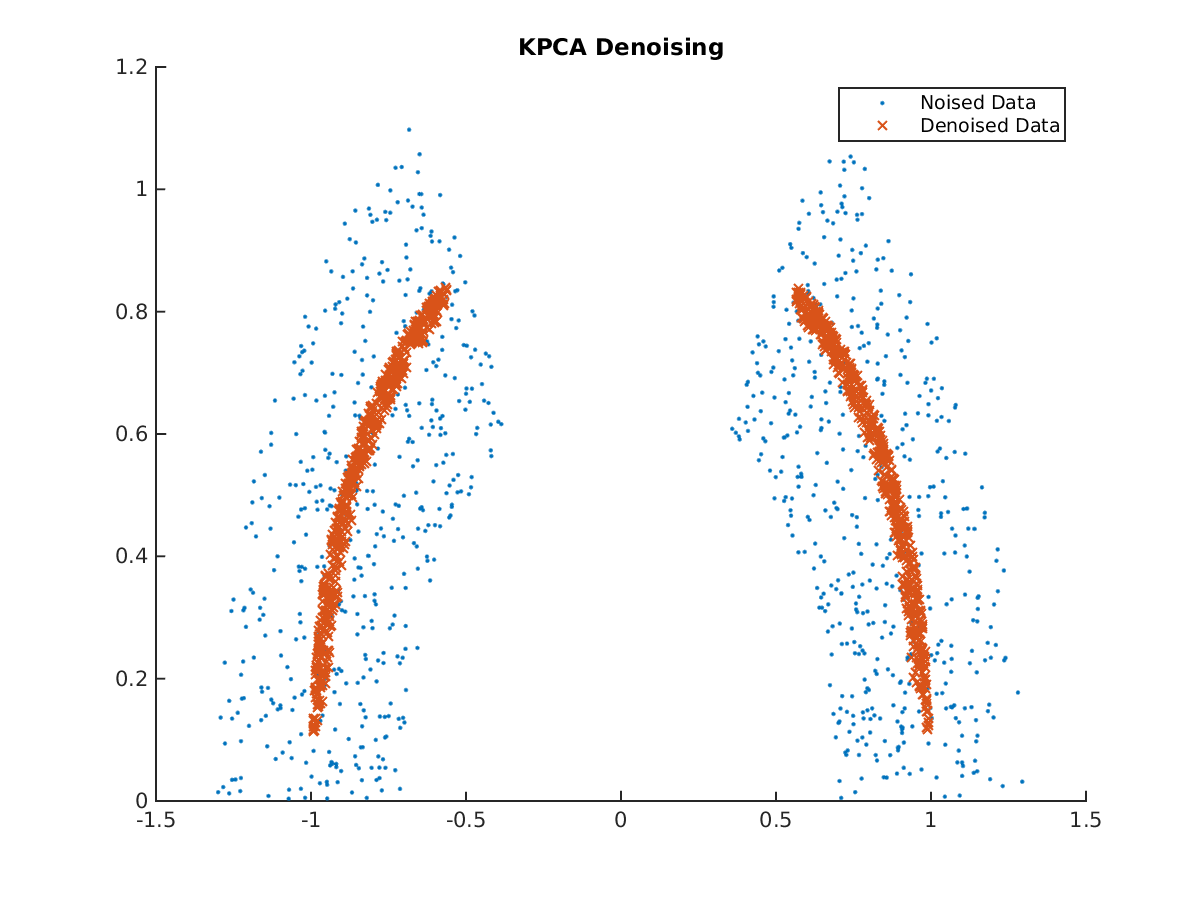
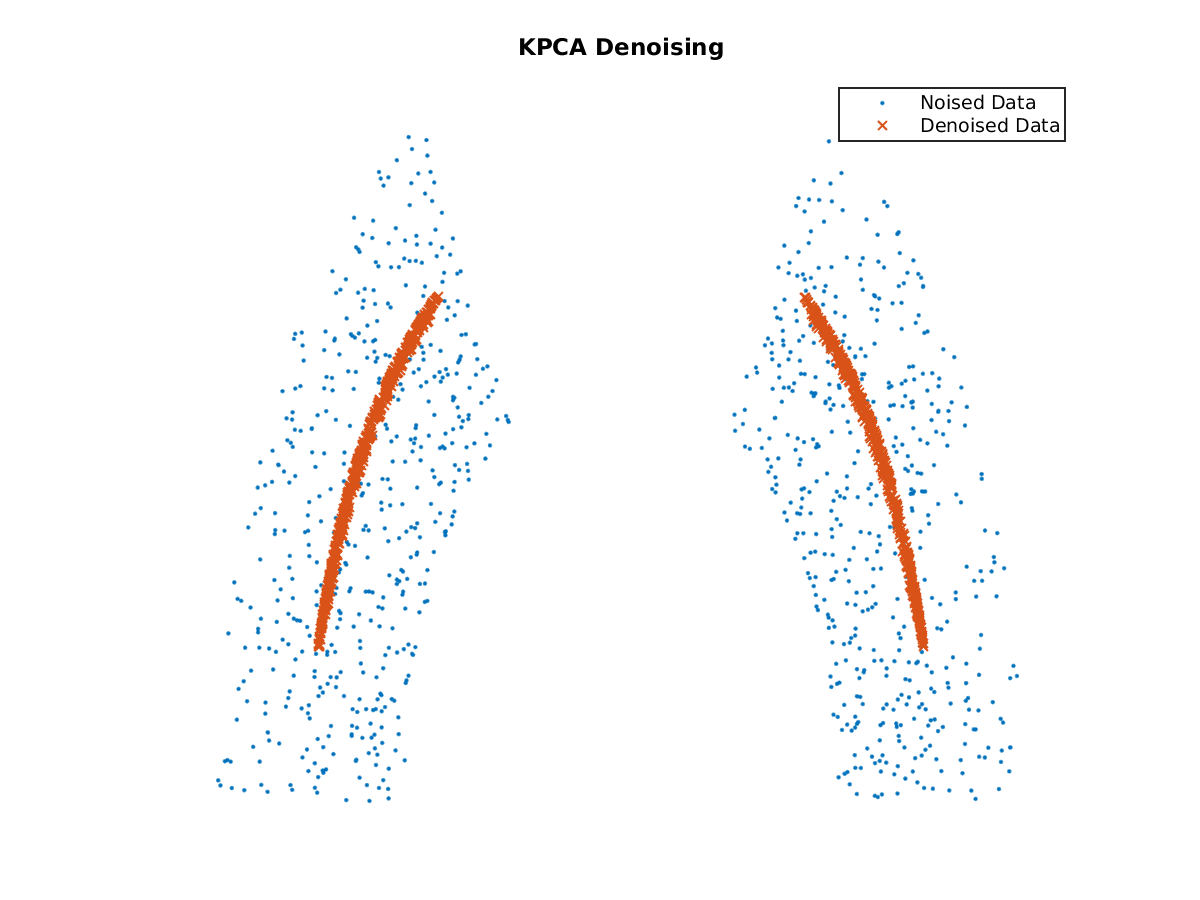
Small adjustments to image gen

diff --git a/code/circle_test.m b/code/circle_test.m
@@ -21,7 +21,7 @@ N = size(x_n, 1);
 % Perform the kPCA
 param = 2*sigma^2;
 [kernel, kernelM] = make_kernel('rbf', param);
-[~, alphas, ~] = kpca([x, y], kernelM, 8);
+[~, alphas, ~] = kpca([x, y], kernelM, 4);
 
 
 % The training data is the generated half circle. The train data is the
@@ -51,6 +51,7 @@ hold on
 % plot(x, y, 'DisplayName', 'Training Data');
 plot(x_n, y_n, '.', 'DisplayName', 'Noised Data');
 plot(z(:, 1), z(:, 2), 'x', 'DisplayName', 'Denoised Data');
+axis off
 title('KPCA Denoising');
 legend('-DynamicLegend');
 saveas(gcf, 'fig/kpca_circle.png');
@@ -58,7 +59,7 @@ saveas(gcf, 'fig/kpca_circle.png');
 
 [kernel, kernelM] = make_kernel('poly', 1);
 % [~, alphas, ~, ~, ~, ~] = pca(train_data, 'Centered', true, 'NumComponents', 2);
-[~, alphas, ~] = kpca(train_data, kernelM, 2);
+[~, alphas, ~] = kpca(train_data, kernelM, 1);
 
 z_plain = zeros(size(test_data));
 for i=1:N
@@ -69,6 +70,7 @@ figure()
 hold on
 plot(x_n, y_n, '.', 'DisplayName', 'Noised Data')
 plot(z_plain(:, 1), z_plain(:, 2), 'x', 'DisplayName', 'Denoised Data')
-title('PCA denoising');
+axis off
+title('PCA Denoising');
 legend('-DynamicLegend');
 saveas(gcf, 'fig/pca_circle.png');

diff --git a/code/box_test.m b/code/box_test.m
@@ -51,7 +51,7 @@ data_test = [x1 y1; x2 y2; x3 y3; x4 y4];
 % Perform kPCA
 param = 2*sigma^2;
 [kernel, kernelM] = make_kernel('rbf', param);
-[~, alphas, ~] = kpca(data_train, kernelM, 12);
+[~, alphas, ~] = kpca(data_train, kernelM, 4);
 
 z = zeros(size(data_test));
 for i=1:N
@@ -62,6 +62,7 @@ figure()
 hold on
 plot(data_test(:, 1), data_test(:, 2), '.', 'DisplayName', 'Noised Data')
 plot(z(:, 1), z(:,2), 'x', 'DisplayName', 'Denoised Data')
+axis off;
 title('KPCA Denoising');
 legend('-DynamicLegend')
 saveas(gcf, 'fig/kpca_box.png');
@@ -80,6 +81,7 @@ figure()
 hold on
 plot(data_test(:, 1), data_test(:, 2), '.', 'DisplayName', 'Noised Data')
 plot(z(:, 1), z(:, 2), 'x', 'DisplayName', 'Denoised Data')
+axis off;
 title('PCA Denoising');
 legend('-DynamicLegend')
 saveas(gcf, 'fig/pca_box.png');
